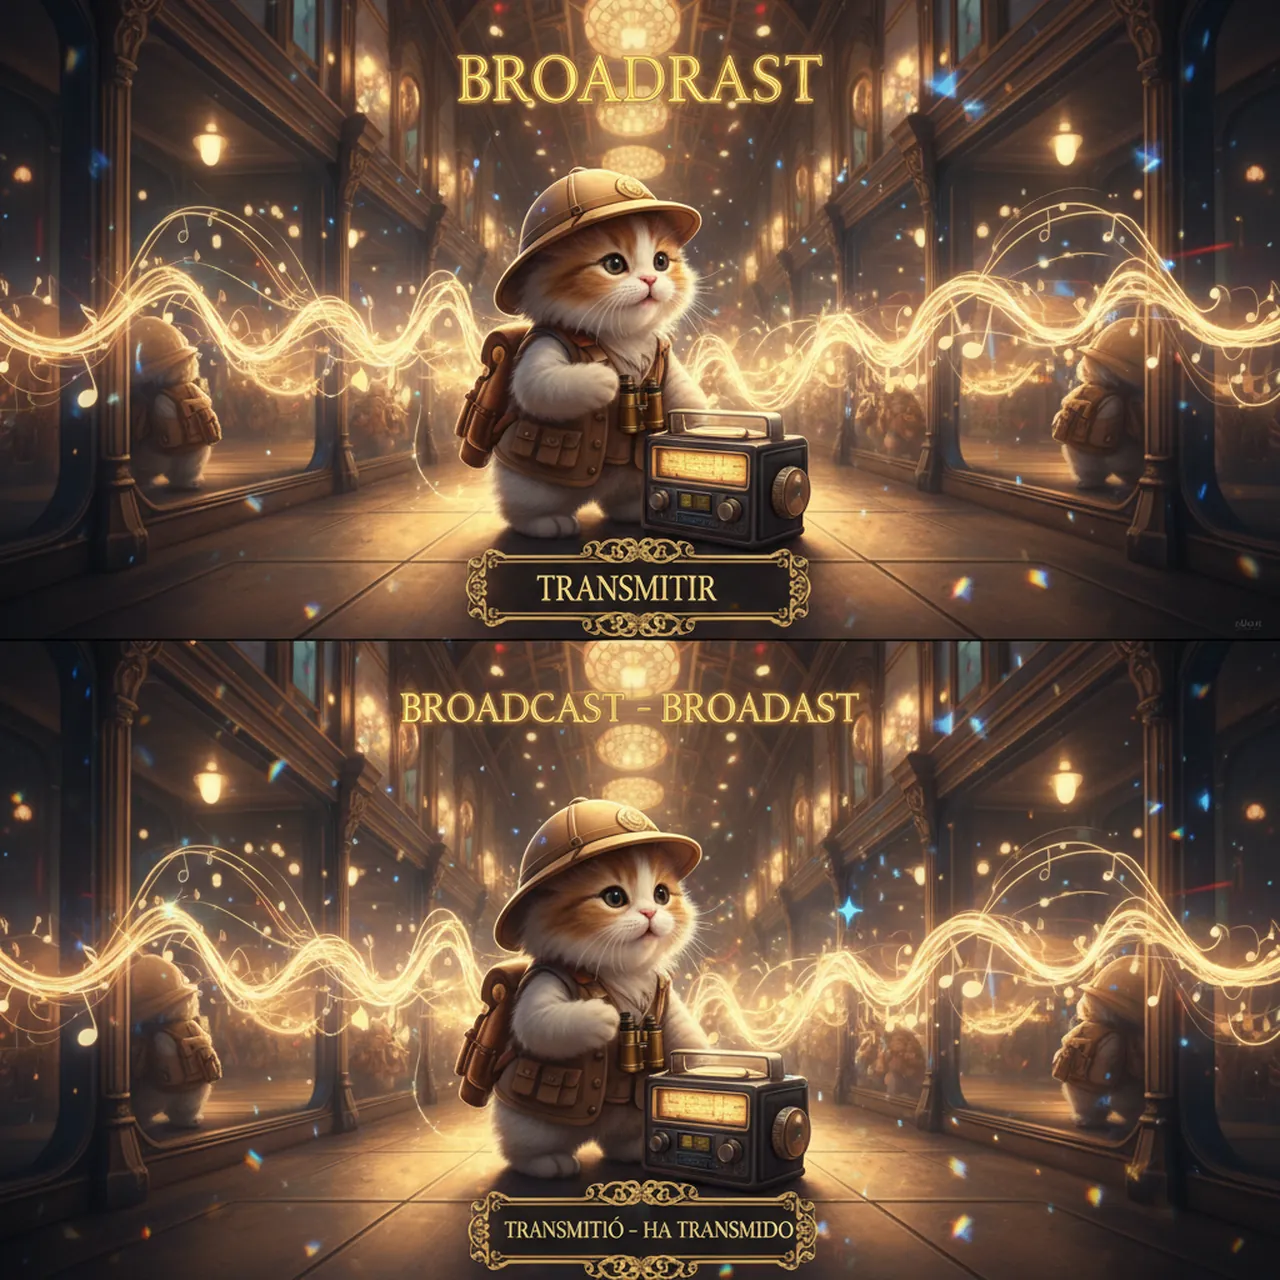
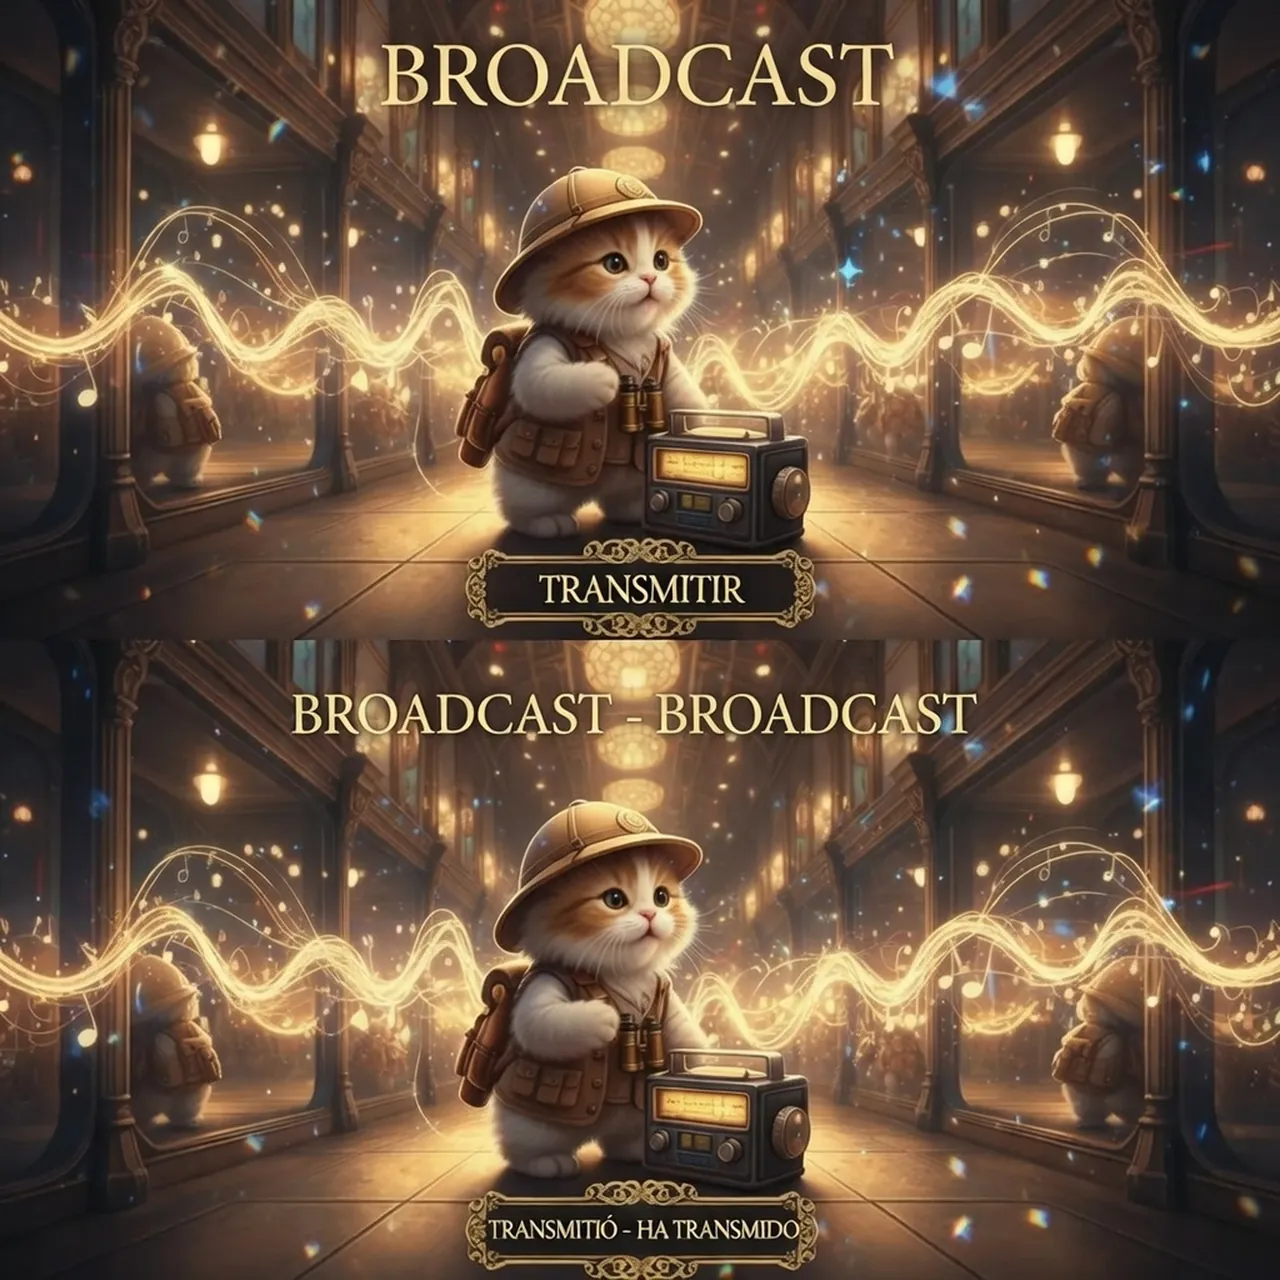
Fix broadcast image cache + click pronunciation

diff --git a/src/AAA_Game_Engine.js b/src/AAA_Game_Engine.js
@@ -42,6 +42,10 @@ function getAAAPalaceImageUrl(verbBase) {
   const base = String(verbBase ?? '').trim().toLowerCase();
   if (!base) return '';
 
+  // Cache-busting for specific assets when they are regenerated but keep the same filename.
+  // Only apply to the one image we updated to avoid changing unrelated behavior.
+  const revision = base === 'broadcast' ? '92fd33da490b' : '';
+
   const publicBase = String(process.env.PUBLIC_URL ?? '').trim();
   // If PUBLIC_URL is empty, prefer relative paths so hosting under a subpath still works.
   const prefix = publicBase ? `${publicBase.replace(/\/$/, '')}/` : '';
@@ -49,19 +53,23 @@ function getAAAPalaceImageUrl(verbBase) {
   // Files can be case-sensitive in production (Linux). We'll try an uppercase default.
   // Special-case forecast because older assets used lowercase.
   const fileName = base === 'forecast' ? 'forecast.webp' : `${base.toUpperCase()}.webp`;
-  return `${prefix}img/AAA/${fileName}`;
+  const url = `${prefix}img/AAA/${fileName}`;
+  return revision ? `${url}?v=${revision}` : url;
 }
 
 function getAAAPalaceImageFallbackUrl(verbBase) {
   const base = String(verbBase ?? '').trim().toLowerCase();
   if (!base) return '';
 
+  const revision = base === 'broadcast' ? '92fd33da490b' : '';
+
   const publicBase = String(process.env.PUBLIC_URL ?? '').trim();
   const prefix = publicBase ? `${publicBase.replace(/\/$/, '')}/` : '';
 
   // Secondary attempt: alternate casing.
   const fileName = base === 'forecast' ? 'FORECAST.webp' : `${base}.webp`;
-  return `${prefix}img/AAA/${fileName}`;
+  const url = `${prefix}img/AAA/${fileName}`;
+  return revision ? `${url}?v=${revision}` : url;
 }
 
 function getAAAPalaceIntroVideoUrl() {
